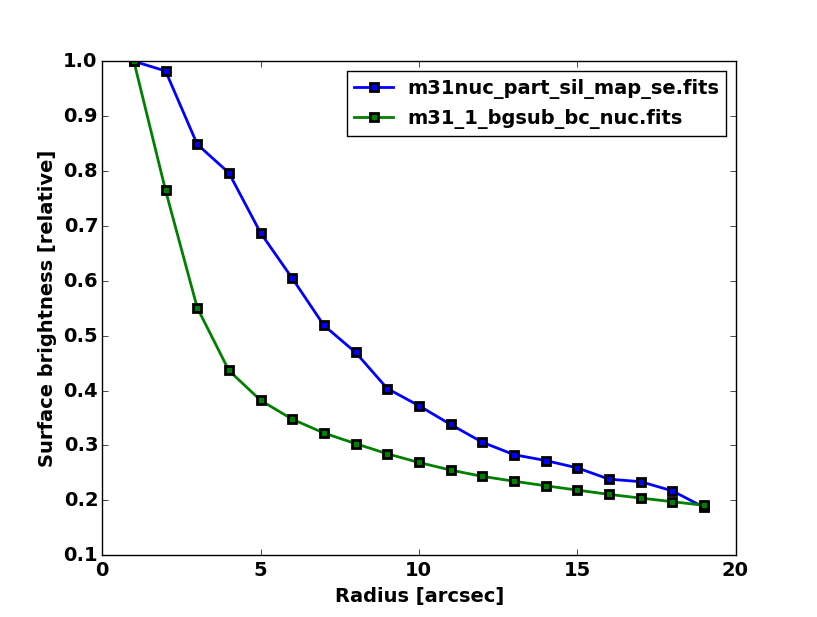
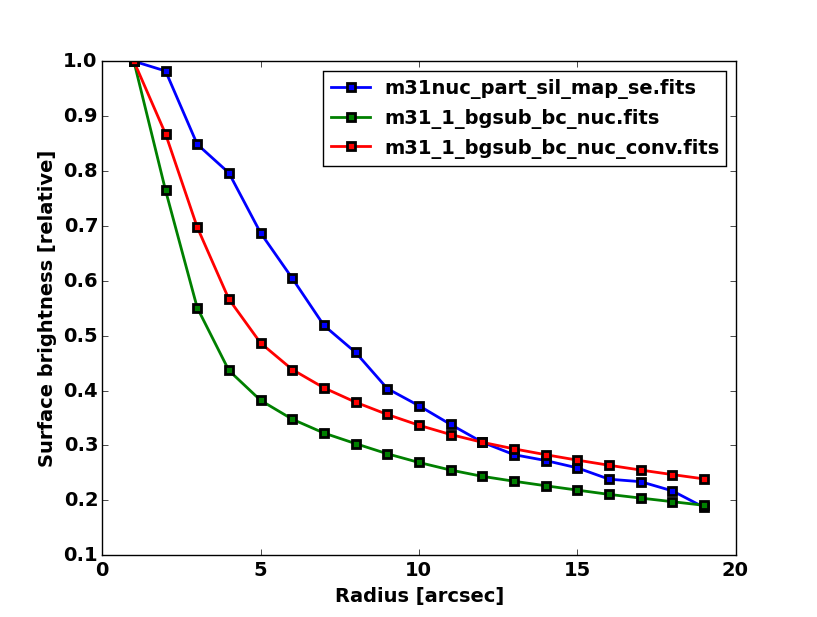
new vers plot, with convolved IRAC

diff --git a/pb_nucleus/nuc_sbprof.py b/pb_nucleus/nuc_sbprof.py
@@ -22,7 +22,7 @@ glx_ctr = SkyCoord(10.68475, 41.269028, frame='icrs', unit='deg')
 
 
 
-imglist = ['m31nuc_part_sil_map_se.fits','m31_1_bgsub_bc_nuc.fits']
+imglist = ['m31nuc_part_sil_map_se.fits','m31_1_bgsub_bc_nuc.fits','m31_1_bgsub_bc_nuc_conv'm31_1_bgsub_bc_nuc.fits'.fits']
 #photwaves = np.array(([10,3.6,4.5,5.8,8]))
 #photcorr_extd = np.array([1.0,0.91,0.94,0.68,0.74]) # IRAC extd src correction, from handbook
 #photcorr_small_ap = np.array([1.0,1.07,1.08,1.076,1.087]) # IRAC pt src aperture correction, for 4-pix radius ap
@@ -69,8 +69,8 @@ def multi_ap_phot(img, ap_ctr, aperture_radii, sb=False):
         areas = areas * np.pi
         surf_br[0] = phot_table['aperture_sum'][0]/areas[0]
         surf_br[1:] = (phot_table['aperture_sum'][1:]- phot_table['aperture_sum'][:-1])/areas[1:]
-        for i in range(0,len(r)):
-            print r[i], phot_table['aperture_sum'][i], areas[i],surf_br[i]
+#        for i in range(0,len(r)):
+#            print r[i], phot_table['aperture_sum'][i], areas[i],surf_br[i]
         return(surf_br)
     else:
         return(phot_table['aperture_sum'])
